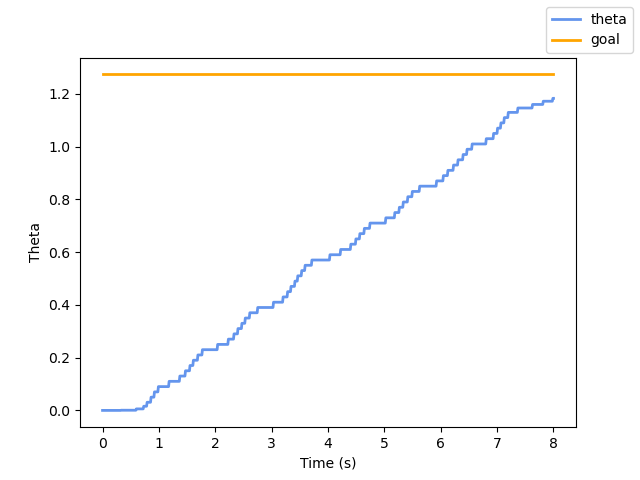
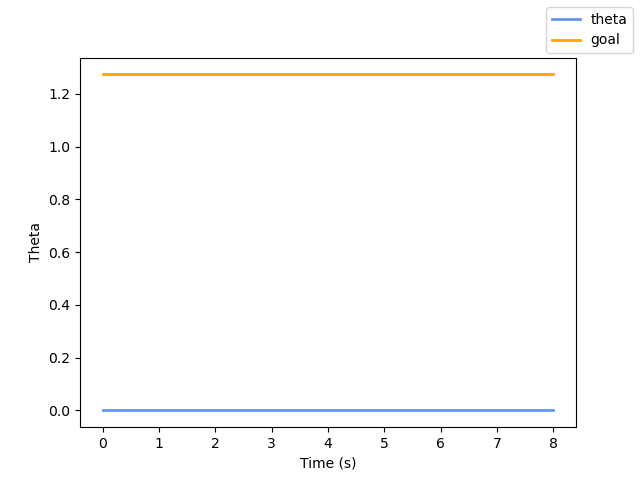
autonomy repo sec4

diff --git a/s3_basic/launch/section3.launch.py b/s3_basic/launch/section3.launch.py
@@ -17,7 +17,7 @@ def generate_launch_description():
         package="rviz2",
         executable="rviz2",
         arguments=["-d", rviz_config],
-        parameters=[{"use_sim_time": True}]
+        parameters=[{"use_sim_time": False}]
     )
 
     return LaunchDescription([
